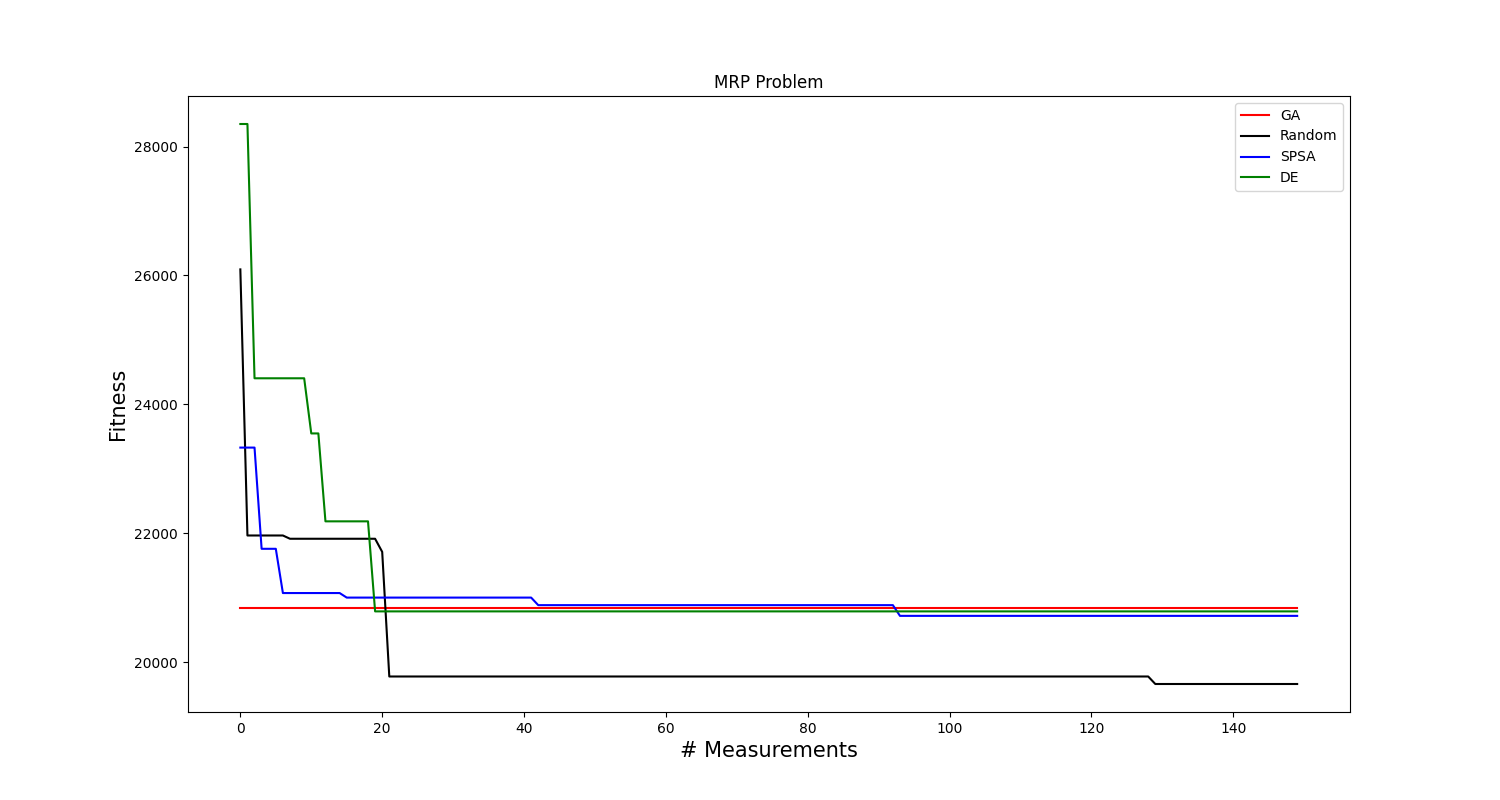
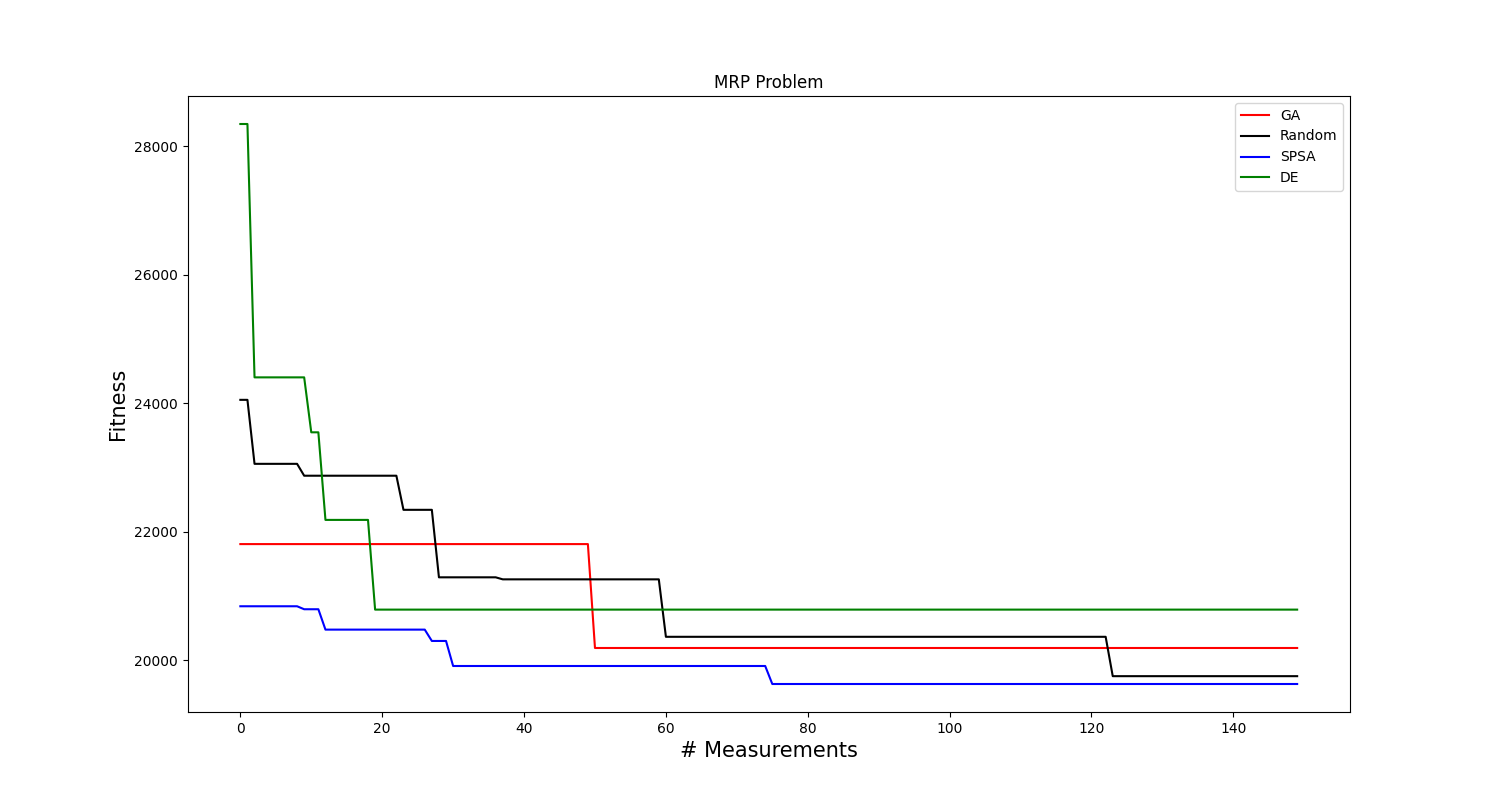
modified:   Reusult_Plot/1343.png 	deleted:    Reusult_Plot/2550.png 	new file:   Reusult_Plot/3682.png 	new file:   Reusult_Plot/3901.png 	new file:   Reusult_Plot/4018.png 	new file:   Reusult_Plot/6325.png 	deleted:    Reusult_Plot/9127.png 	new file:   Reusult_Plot/9923.png 	deleted:    Reusult_

diff --git a/opt_spsa.py b/opt_spsa.py
@@ -11,7 +11,9 @@ MAX_INT=sys.maxsize
 # -----------------------------------------------------------
 def initial_sol(T, product_size, item_size, upper_bound, lower_bound = 0):
 	return np.random.randint(lower_bound, upper_bound, size=(T, item_size))
+	# return np.ones((T, item_size))*upper_bound
 
+'''
 def normalization(T, product_size, item_size, upper_bound, sample_size = 50):
 	sample_list = []
 	for i in range(sample_size):
@@ -19,7 +21,7 @@ def normalization(T, product_size, item_size, upper_bound, sample_size = 50):
 	# sample_mean = np.mean(sample_list)
 	sample_std = np.std(sample_list)
 	return sample_std
-
+'''
 
 # return a integer of the optimization solution (weighted cost) 
 def spsa_fun(T, product_size, item_size, opt_count_limit, upper_bound, lower_bound = 0):
@@ -29,13 +31,14 @@ def spsa_fun(T, product_size, item_size, opt_count_limit, upper_bound, lower_bou
 	'''
 	# -----------------------------------------------------------
 	# index setting (1)
-	alpha = 0.2 # .602 from (Spall, 1998)
-	gamma = 0.167 # .167 default
-	a = 1 # .101 found empirically using HyperOpt
+	alpha = .602 # .602 from (Spall, 1998)
+	gamma = .167 # .167 default
+	a = .0101 # .101 found empirically using HyperOpt
 	A = .193 # .193 default
-	c = .0277 # .0277 default # T * product_size *item_size
+	c = 1 # .0277 default # T * product_size *item_size
 	u = initial_sol(T, product_size, item_size, upper_bound)
-	sample_std = normalization(T, product_size, item_size, upper_bound)
+	d_k = 100
+	# sample_std = normalization(T, product_size, item_size, upper_bound)
 	# print(sample_mean)
 	# scalar_u = ros.replications_of_sim(T, product_size, item_size, u)
 	# print(u)
@@ -45,7 +48,7 @@ def spsa_fun(T, product_size, item_size, opt_count_limit, upper_bound, lower_bou
 
 	for k in range(opt_count_limit):
 
-		print(">> Case %d" %(k+1))
+		# print(">> Case %d" %(k+1))
 		# index setting (2)
 
 		a_k = a / (A + k + 1)**alpha 	# a_k = 1 / (k+1)
@@ -54,17 +57,23 @@ def spsa_fun(T, product_size, item_size, opt_count_limit, upper_bound, lower_bou
 		# Step 2: Generation of simultaneous perturbation vector
 		# choose each component from a bernoulli +-1 distribution with
 		# probability of .5 for each +-1 outcome.
-		delta_k = np.random.choice([-1,1], size=(T, item_size), p=[.5, .5])
+		delta_k = np.random.choice([-d_k,d_k], size=(T, item_size), p=[.5, .5])
+		# print(c_k*delta_k[0][0])
 
 		# Step 3: Function evaluations
-		thetaplus = np.asarray(u + c_k*delta_k, dtype = 'int')
-		thetaminus = np.asarray(u - c_k*delta_k, dtype = 'int')
+		thetaplus = np.where(u + c_k*delta_k < lower_bound, lower_bound, u + c_k*delta_k)
+		thetaplus = np.where(thetaplus > upper_bound, upper_bound, thetaplus).astype('int')
 		y_thetaplus = ros.replications_of_sim(T, product_size, item_size, thetaplus)
+		
+		thetaminus = np.where(u - c_k*delta_k < lower_bound, lower_bound, u - c_k*delta_k)
+		thetaminus = np.where(thetaminus > upper_bound, upper_bound, thetaminus).astype('int')
 		y_thetaminus = ros.replications_of_sim(T, product_size, item_size, thetaminus)
 
+		# print(thetaplus.min(), thetaplus.max())
+
 		# Step 4: Gradient approximation
-		g_k = np.dot((y_thetaplus - y_thetaminus) / (2.0*c_k) / sample_std, delta_k)
-		# print(a_k * g_k[0][0])
+		g_k = np.dot((y_thetaplus - y_thetaminus) / (2.0*c_k*d_k**2), delta_k)
+		# print(c_k*delta_k[0][0], a_k * g_k[0][0])
 
 		# Step 5: Update u estimate
 		# u = np.asarray(np.where((u-a_k*g_k<0, 0, u-a_k*g_k) & (u-a_k*g_k>64, 64, u-a_k*g_k)), dtype = 'int')
@@ -96,7 +105,7 @@ def spsa_fun(T, product_size, item_size, opt_count_limit, upper_bound, lower_bou
 	return best_obj, spsa_ans_list
 
 
-'''# test
+# test
 if __name__ == '__main__' :
 	print("go ...")
 	T, product_size, item_size = (200, 40, 30)
@@ -104,7 +113,7 @@ if __name__ == '__main__' :
 	time.clock = time.time
 	
 	tic = time.clock()
-	spsa_fun(T, product_size, item_size, 100)
+	spsa_fun(T, product_size, item_size, 100, product_size*1000)
 	time_spsa = time.clock()-tic
 	print(">> SPSA in %.5f sec." %time_spsa)
-'''
+

diff --git a/opt_ga_new.py b/opt_ga_new.py
@@ -1,8 +1,12 @@
 import numpy as np
-from pymoo.algorithms.soo.nonconvex.de import DE
+from pymoo.algorithms.soo.nonconvex.ga import GA
 from pymoo.problems import get_problem
-from pymoo.operators.sampling.lhs import LHS
 from pymoo.operators.sampling.rnd import FloatRandomSampling
+from pymoo.operators.selection.tournament import TournamentSelection
+from pymoo.algorithms.soo.nonconvex.ga import comp_by_cv_and_fitness
+from pymoo.operators.crossover.sbx import SimulatedBinaryCrossover
+from pymoo.operators.mutation.pm import PolynomialMutation
+from pymoo.algorithms.soo.nonconvex.ga import FitnessSurvival
 from pymoo.optimize import minimize
 from pymoo.core.problem import ElementwiseProblem
 from pymoo.termination import get_termination
@@ -24,18 +28,18 @@ class MyProblem(ElementwiseProblem):
         self.fitness_list.append(f1)
         out["F"] = [f1]
 
-def de_fun(T, product_size, item_size, MaxIteration, pop_size, upper_bound):
+def ga_fun(T, product_size, item_size, MaxIteration, pop_size, upper_bound):
     problem = MyProblem(T, product_size, item_size, upper_bound)
     termination = get_termination("n_gen", MaxIteration)
-    algorithm = DE(
-        pop_size,
-        sampling=FloatRandomSampling(),
-        variant="DE/rand/2/bin",
-        CR=0.3,
-        dither="vector",
-        jitter=False
-    )
-
+    algorithm = GA(
+    pop_size,
+    sampling=FloatRandomSampling(),
+    selection=TournamentSelection(func_comp=comp_by_cv_and_fitness),
+    crossover=SimulatedBinaryCrossover(prob=0.9),
+    mutation=PolynomialMutation(prob=0.1),
+    survival=FitnessSurvival(),
+    n_offsprings=None,
+    eliminate_duplicates=True)
     res = minimize(problem, algorithm, termination, seed=1, verbose=False)
     # print(problem.fitness_list)
     
@@ -62,7 +66,7 @@ if __name__ == '__main__' :
 	time.clock = time.time
 	
 	tic = time.clock()
-	best_de, bl_de = de_fun(T, product_size, item_size, 2, 50, product_size*1024)
+	best_de, bl_de = ga_fun(T, product_size, item_size, 2, 50, 1024*product_size)
 	time_spsa = time.clock()-tic
 	print(">> DE in %.5f sec." %time_spsa)
 

diff --git a/main.py b/main.py
@@ -1,21 +1,30 @@
 import time
 time.clock = time.time
-import opt_ga, opt_random, opt_spsa, opt_de, visualization
+import opt_ga, opt_ga_new, opt_random, opt_spsa, opt_de, visualization
 
 if __name__ == '__main__':
 	
 	#=============================index setting==============================
-	T, product_size, item_size =  (5, 4, 3) # product_size should be power of 2
-	upper_bound = product_size*1024
+	T, product_size, item_size =  (200, 40, 30) # product_size should be power of 2
+	upper_bound = product_size*1000
 	# MaxIteration = 30
-	Max_measurements = 150 # This value should be a multiple of 'pop_size = 50' and 'spsa_measurements_per_iteration = 3'
+	Max_measurements = 4500 # This value should be a multiple of 'pop_size = 50' and 'spsa_measurements_per_iteration = 3'
 	print(f'T={T},  product_size={product_size}, item_size={item_size}')
 	#========================================================================
 	
+	'''
 	# genetic algorithm
 	ga_pop_size = 50
 	tic = time.clock()
-	best_ga, bl_ga = opt_ga.ga_fun(T, product_size, item_size, int(Max_measurements/ga_pop_size) , ga_pop_size, upper_bound)
+	best_ga, bl_ga = opt_ga.ga_fun(T, product_size, item_size, int(Max_measurements/ga_pop_size), ga_pop_size, upper_bound)
+	time_ga = time.clock()-tic
+	print(">> GA in %.5f sec." %time_ga)
+	'''
+ 
+	# genetic algorithm 2
+	ga_pop_size = 50
+	tic = time.clock()
+	best_ga, bl_ga = opt_ga_new.ga_fun(T, product_size, item_size, int(Max_measurements/ga_pop_size), ga_pop_size, upper_bound)
 	time_ga = time.clock()-tic
 	print(">> GA in %.5f sec." %time_ga)
 

diff --git a/visualization.py b/visualization.py
@@ -7,7 +7,7 @@ import random
 
 def vis(bl_ga, bl_random, bl_spsa, bl_de):
 
-	random_number = int(10000*random.random())
+	random_number = np.random.randint(1000, 9999)
 	plt.figure(figsize = (15,8))
 	plt.xlabel("# Measurements",fontsize = 15)
 	plt.ylabel("Fitness",fontsize = 15)
@@ -19,8 +19,9 @@ def vis(bl_ga, bl_random, bl_spsa, bl_de):
 
 	plt.legend(['GA', 'Random', 'SPSA', 'DE'])
 	plt.title('MRP Problem')
-	# plt.savefig('c:/Users/MB608/Desktop/theis_MRP/theis_MRP/Reusult_Plot/'+str(random_number)+'.png')
-	plt.savefig(f'c:/Users/MB608/Desktop/theis_MRP/theis_MRP/Reusult_Plot/{random_number}.png')
+	plt.savefig('c:/Users/MB608/Desktop/theis_MRP/theis_MRP/Reusult_Plot/'+str(random_number)+'.png')
+	print(random_number)
+	# plt.savefig(f'c:/Users/MB608/Desktop/theis_MRP/theis_MRP/Reusult_Plot/{random_number}.png')
 	# plt.savefig(f'/Users/user/Desktop/MRP-2/Reusult_Plot/{random_number}.png')
 	# plt.show()
 	return 

diff --git a/opt_ga.py b/opt_ga.py
@@ -60,8 +60,8 @@ class GeneticAlgorithm():
 
 		for i in arrival_set:
 			# generate a solution from arrival_set
-			sol = np.array_split(i,T)
-			funsum.append(ros.replications_of_sim(T, product_size, item_size, np.array(sol)))
+			arrival = np.array_split(i,T)
+			funsum.append(ros.replications_of_sim(T, product_size, item_size, arrival))
 
 		# print(list(funsum))
 		return list(funsum)

diff --git a/opt_random.py b/opt_random.py
@@ -13,7 +13,7 @@ def random_fun(T, product_size, item_size, opt_count_limit, upper_bound, lower_b
 	
 	for k in range(opt_count_limit):
 		# initialize variables
-		print(">> Case %d" %(k+1))
+		# print(">> Case %d" %(k+1))
 
 		# generate an solution randomly
 		arrival = np.random.randint(lower_bound, upper_bound, size=(T, item_size))
